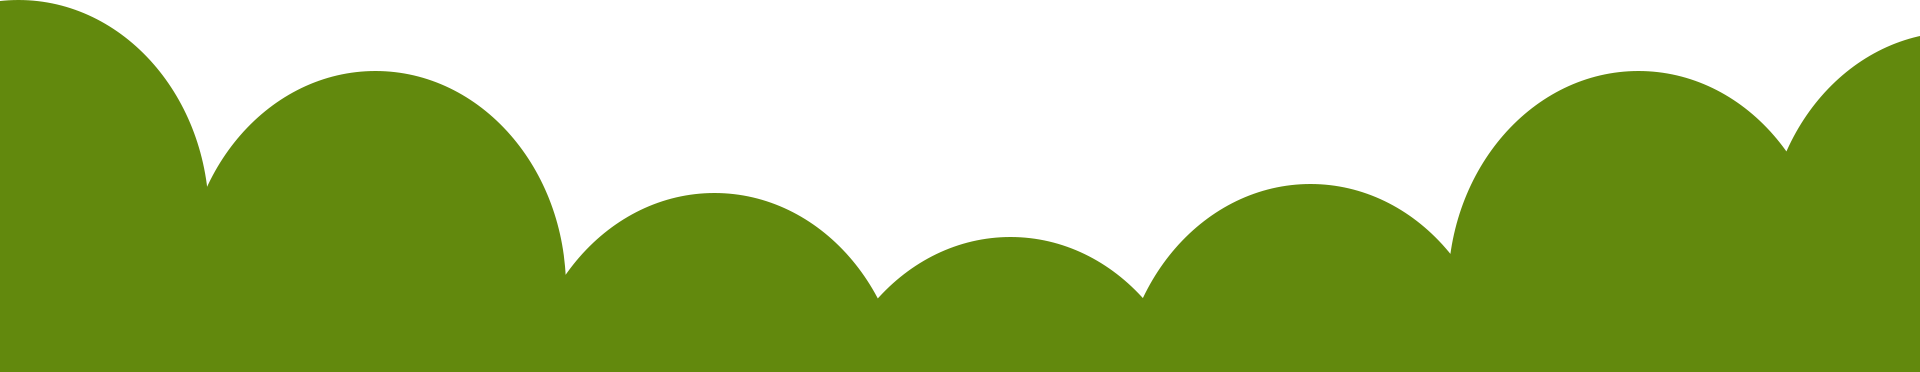
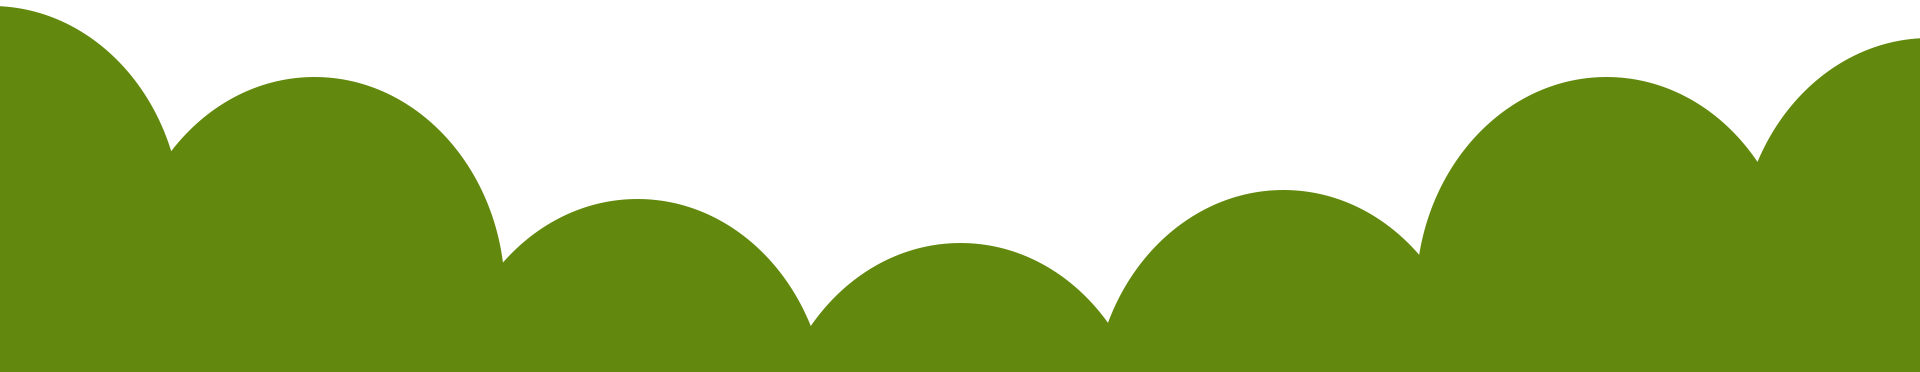
redesign2

diff --git a/css/style.css b/css/style.css
@@ -78,9 +78,10 @@ img {
 
 .sec-title {
 	font-size: var(--font-exta);
-	font-weight: 900;
+	font-weight: 700;
 	text-align: center;
 	margin-bottom: 16px;
+	/*letter-spacing: .3rem;*/
 }
 
 .sec-cnt {
@@ -105,7 +106,7 @@ img {
 	line-height: var(--font-min);
 	color: var(--sub-color);
 	vertical-align: middle;
-	padding: 1.56rem 2.5rem;
+	padding: 1rem 2rem;
 	transition: all .2s linear;
 }
 
@@ -155,10 +156,6 @@ img {
 	font-size: var(--web-url);
 }
 
-.ver2 .web-url {
-	color: var(--sub-color);
-}
-
 .sec-top,
 .sec-bot {
 	background-repeat: no-repeat;
@@ -178,7 +175,7 @@ img {
 
 .item-pic {
 	border-radius: 50%;
-	border: 5px solid var(--main-color);
+	border: 3px solid var(--main-color);
 	background: no-repeat center;
 	margin: 0 auto;
 	width: 100%;
@@ -212,8 +209,8 @@ img {
 
 }
 .sec1 .sec-top {
-	background-image: url("../img/sec1_top.png");
-	height: 372px;
+	/*background-image: url("../img/sec1_top.png");*/
+	/*height: 372px;*/
 }
 
 .sec1 .sec-bot {
@@ -222,8 +219,13 @@ img {
 }
 
 .sec1 .narrow-frame {
-	height: calc(100vh - 744px);
+	/* height: calc(100vh - 744px); */
 	display: table;
+	height: auto;
+	/* padding: 100px 0; */
+	max-height: calc(100vh - 372px);
+	vertical-align: middle;
+	padding: 40vh 0 0;
 }
 
 .sec1 .sec-title {
@@ -231,15 +233,16 @@ img {
 	color: var(--main-color);
 	text-align: center;
 	vertical-align: middle;
-	/*font-size: var(--font-xl);*/
-	/*width: 475px;*/
 	height: 82px;
-	/*position: relative;*/
 }
 
-.sec1 .sec-title img {
-	/*max-width: 475px;*/
+.subTitle{
+	color: var(--sub-color);
+	font-size: var(--web-url);
+	text-align: center;
+	margin-top: 25px;
 }
+
 
 .top-title {
 	width: 29.6875rem; /*475*/
@@ -459,8 +462,8 @@ img {
 	max-width: 720px;
 	min-height: 400px;
 	margin: 60px auto 0;
-	border: 6px solid var(--sub-color);
-	border-radius: 60px;
+	border: 3px solid var(--sub-color);
+	border-radius: 20px;
 	overflow: hidden;
 	background: url("../img/INDEX-2_29.jpg") no-repeat center;
 	background-size: cover;
@@ -513,7 +516,7 @@ img {
 
 .sec6 .wire-frame {
 	/*background: var(--sub-color);*/
-	background-image: url("../img/bk.jpg");
+	background-image: url("../img/bk1.jpg");
 	background-attachment: fixed;
 }
 
@@ -531,6 +534,7 @@ img {
 
 .sec6 .item-pic {
 	margin: 0;
+	border-color: var(--sub-color);
 }
 
 .sec6 .item-pic.ver1 {
@@ -602,9 +606,7 @@ img {
 	.txt-wrap {
 		margin: 10px;
 	}
-	.mySlides {
-		max-width: 80% !important;
-	}
+
 
 	.sec6 .item-wrap {
 		flex-flow: column;
@@ -668,7 +670,6 @@ img {
 	.sec4 .item-pic {
 		max-width: 80%;
 		min-height: 300px;
-		border-radius: 60px;
 	}
 
 	.sec5 .item-wrap{

diff --git a/index.html b/index.html
@@ -86,7 +86,9 @@
 				</div>
 				<!--<img src="img/top-title.png">-->
 			</div>
+
 		</div>
+		<p class="subTitle" data-scroll-reveal="enter bottom and move 20px over .5s wait .5s">PORTFOLIO</p>
 		<div class="sec-bot"></div>
 	</div>
 
@@ -246,7 +248,7 @@
 	<div class="wire-frame">
 		<div class="sec-top"></div>
 		<div>
-			<div class="sec-txt-wrap ver2"  data-scroll-reveal="enter top and move 20px over .5s">
+			<div class="sec-txt-wrap"  data-scroll-reveal="enter top and move 20px over .5s">
 				<p class="sec-title" data-scroll-reveal="enter top">Business Web</p>
 				<p class="sec-cnt" data-scroll-reveal="enter top after .5s">社群網站</p>
 			</div>
@@ -256,7 +258,7 @@
 					<li>
 						<div class="item-pic ver1" data-scroll-reveal="enter right and move 20px over .5s"></div>
 						<div class="item-pic-txt">
-							<p class="web-name-wrap ver2">
+							<p class="web-name-wrap">
 								<span class="web-name" data-scroll-reveal="enter right and move 20px after .5s">USG
 																												官網</span>
 								<span class="web-url" data-scroll-reveal="enter right and move 20px after 1s">usgfx
@@ -264,7 +266,7 @@
 							</p>
 							<a href="website/usg/" target="_blank" class="item"
 							data-scroll-reveal="enter right and move 20px after 1.5s">
-								<span class="sec-btn ver2">more</span>
+								<span class="sec-btn ver3">more</span>
 							</a>
 						</div>
 					</li>
@@ -272,7 +274,7 @@
 						<div class="item-pic ver2"
 						data-scroll-reveal="enter right and move 20px over .5s after .3s"></div>
 						<div class="item-pic-txt">
-							<p class="web-name-wrap ver2">
+							<p class="web-name-wrap">
 								<span class="web-name" data-scroll-reveal="enter right and move 20px after .8s">
 									普惠慈善舞團官網</span>
 								<span class="web-url" data-scroll-reveal="enter right and move 20px after 1.3s">puhuei
@@ -280,7 +282,7 @@
 							</p>
 							<a href="website/dance/" target="_blank" class="item"
 							data-scroll-reveal="enter right and move 20px after 1.8s">
-								<span class="sec-btn ver2">more</span>
+								<span class="sec-btn ver3">more</span>
 							</a>
 						</div>
 					</li>

diff --git a/css/slide.css b/css/slide.css
@@ -1,5 +1,4 @@
 
-
 .slideshow-container {
 	position: relative;
 	max-width: 890px;
@@ -12,8 +11,8 @@
 	width: 100%;
 	max-width: 705px;
 	margin: 0 auto;
-	border: 5px solid #fff;
-	border-radius: 60px;
+	border: 3px solid #fff;
+	border-radius: 20px;
 	overflow: hidden;
 }
 
@@ -88,20 +87,26 @@
 	}
 }
 
+@media screen and (max-width: 768px) {
+	.mySlides {
+		max-width: 80% !important;
+	}
+}
+
 @media screen and (max-width: 480px) {
 	.prev, .next {
 		width: 30px;
 	}
-	.dot{
+
+	.dot {
 		width: 14px;
 		height: 14px;
 	}
-	.dot-wrap{
+
+	.dot-wrap {
 		bottom: 38px;
 	}
-	.mySlides{
-		border-radius: 40px;
-	}
+
 }
 
 @media screen and (max-width: 320px) {
